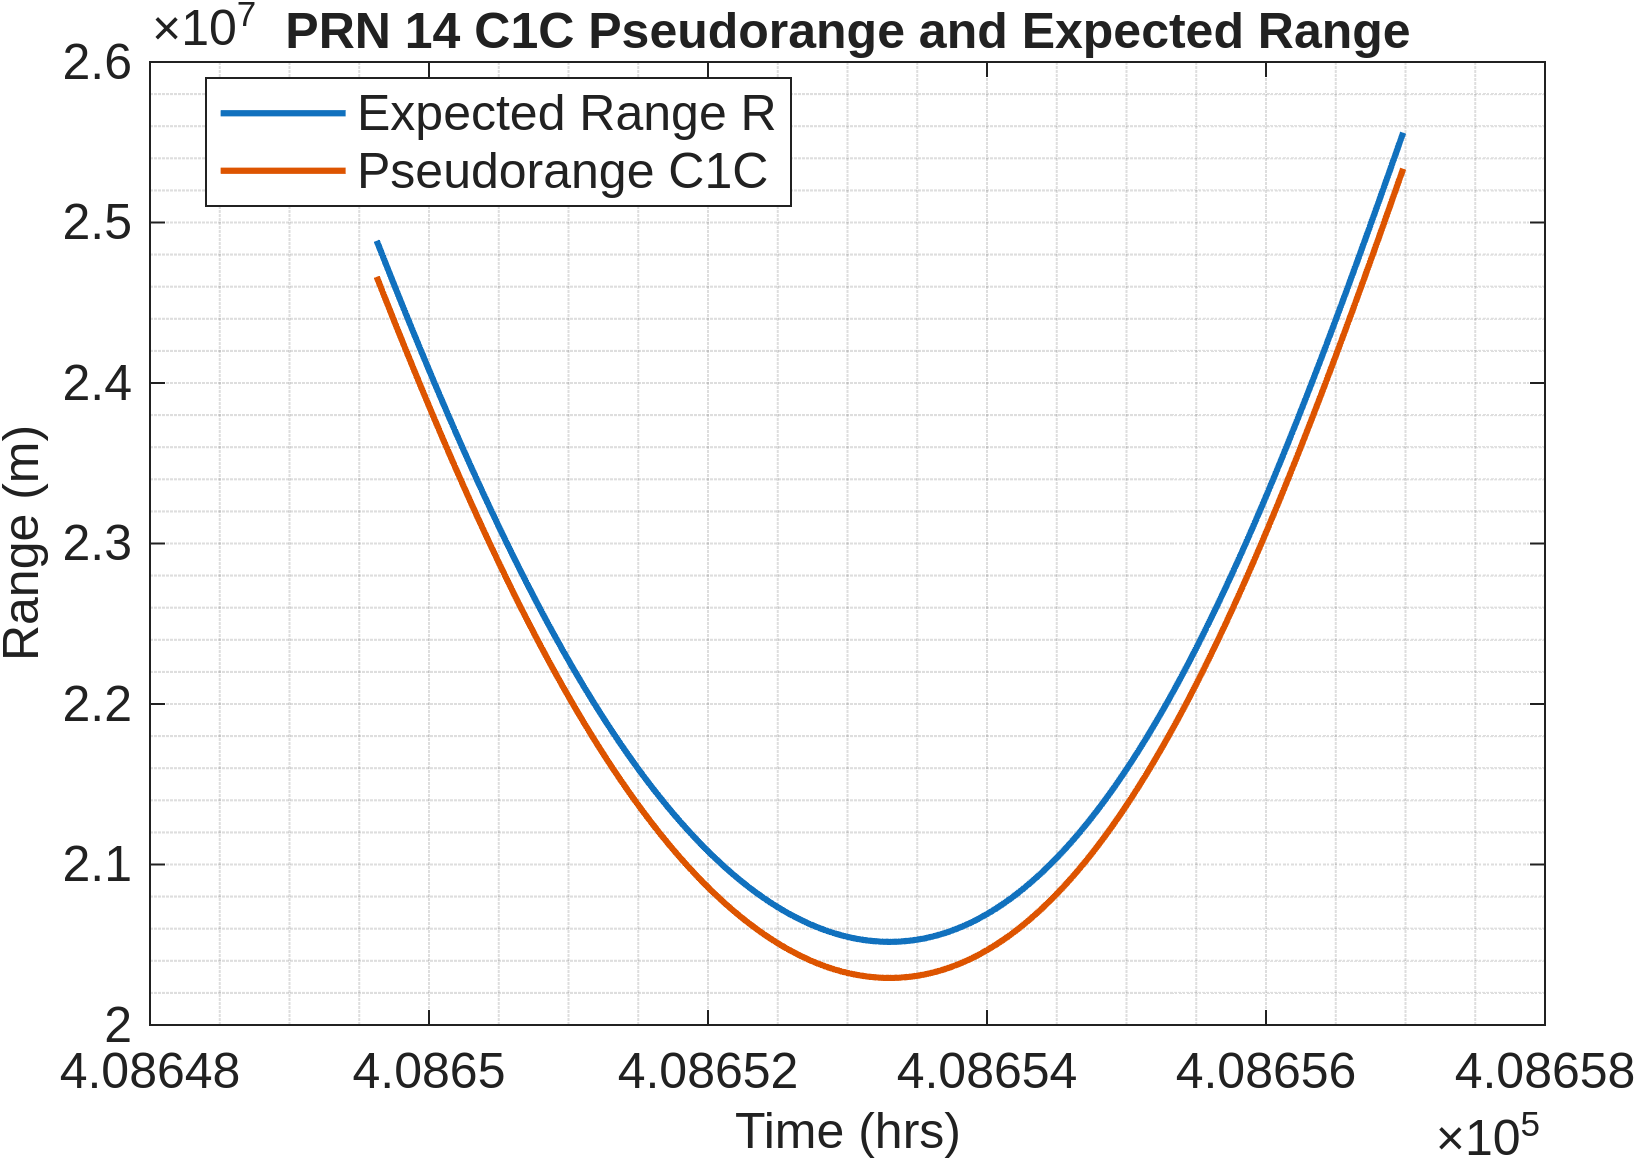
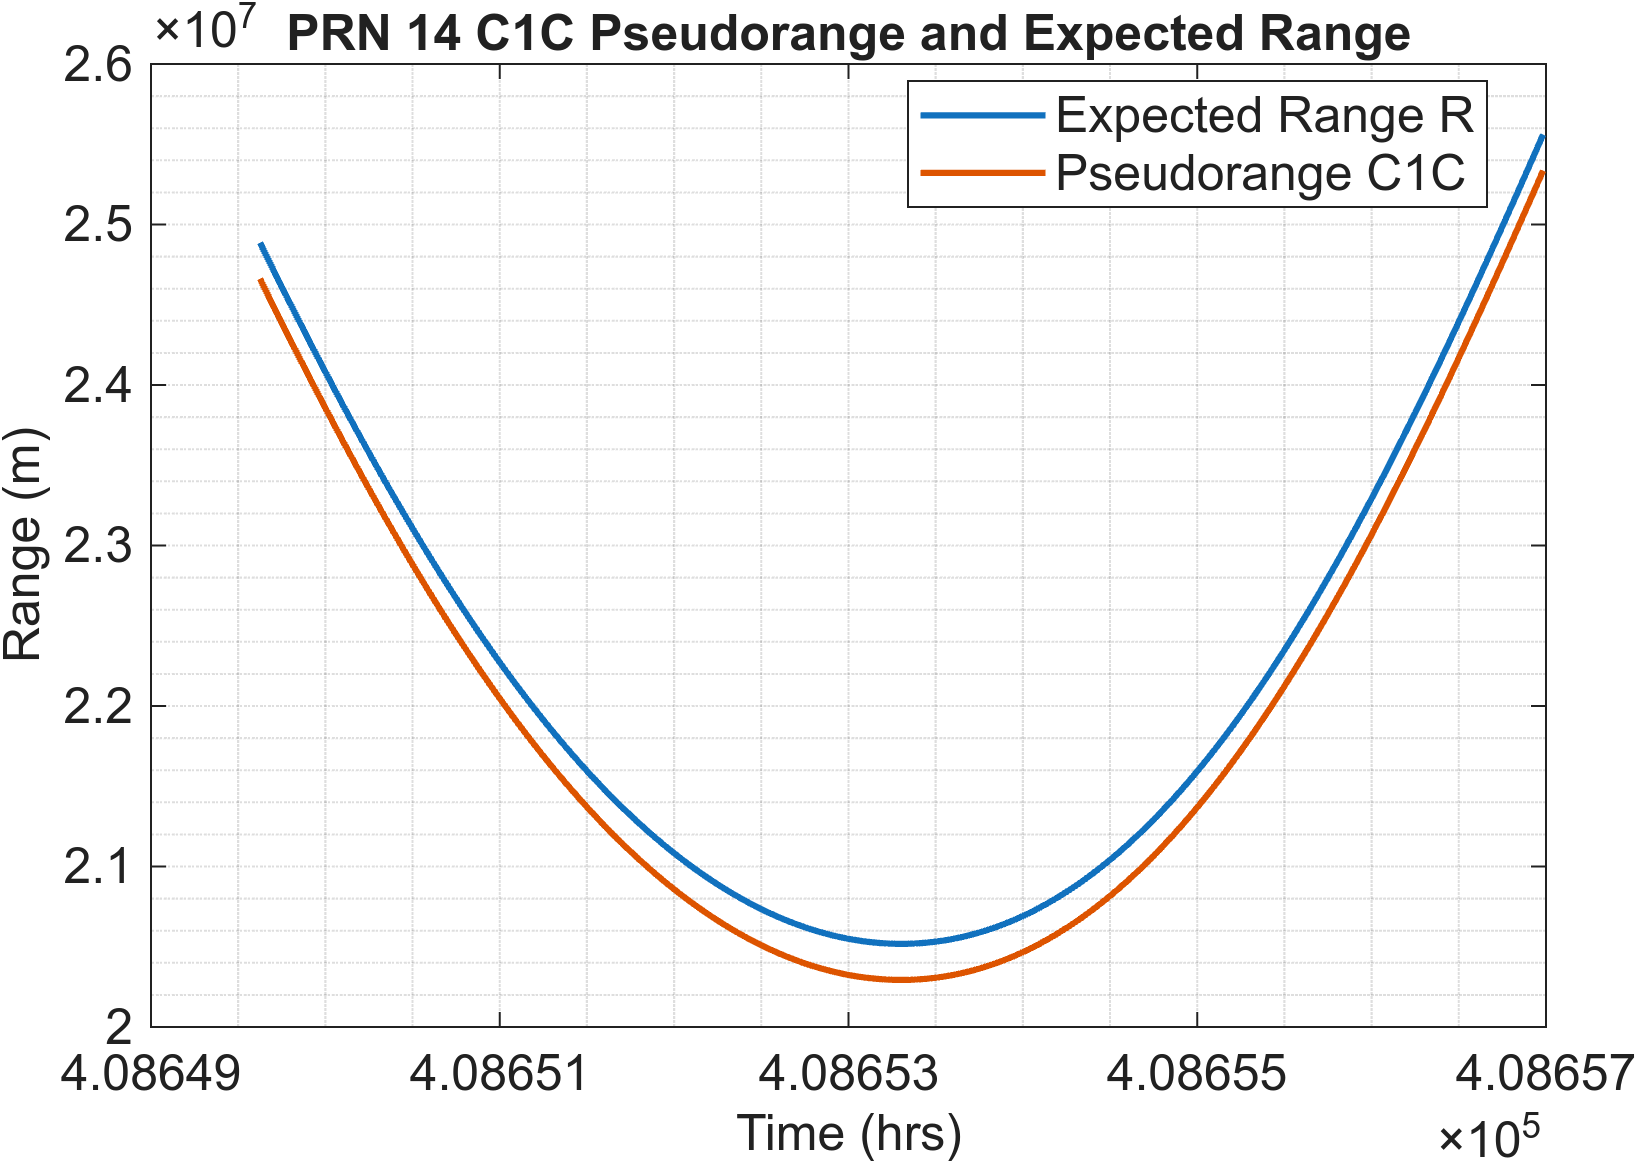
gps hw4 work

diff --git a/GPS/Homework/MATLAB/HW4_SCRIPT.m b/GPS/Homework/MATLAB/HW4_SCRIPT.m
@@ -53,6 +53,7 @@ legend('Expected Range R', 'Pseudorange C1C', 'Location', 'best')
 title(sprintf('PRN %d C1C Pseudorange and Expected Range', PRN_number))
 set(gcf, 'Units', 'inches', 'Position', [0 0 6 4]);
 set(findall(gcf, '-property', 'FontSize'), 'FontSize', 12);
+set(findall(gcf, 'Type', 'axes'), 'XTick', floor(min(ephem_time_hr)):2:ceil(max(ephem_time_hr)));
 exportgraphics(gcf, fullfile('figures', 'HW4', 'HW4_P1_C1C_vs_R_PRN14.png'), 'Resolution', 300);
 
 figure()
@@ -63,12 +64,13 @@ grid minor
 title(sprintf('PRN %d dPR0 = C1C - R', PRN_number))
 set(gcf, 'Units', 'inches', 'Position', [0 0 6 4]);
 set(findall(gcf, '-property', 'FontSize'), 'FontSize', 12);
+set(findall(gcf, 'Type', 'axes'), 'XTick', floor(min(ephem_time_hr)):2:ceil(max(ephem_time_hr)));
 exportgraphics(gcf, fullfile('figures', 'HW4', 'HW4_P1_dPR0_PRN14.png'), 'Resolution', 300);
 
 % Difference vector between C1C and expected range
 dPR0 = PRN14_GPS_rinexData.C1C-R_expected;
-dPR0(1)
-dPR0(end)
+fprintf('dPR0 first value: %.4f m\n', dPR0(1));
+fprintf('dPR0 last value:  %.4f m\n', dPR0(end));
 
 %% Problem 2
 figure()
@@ -79,6 +81,7 @@ grid minor
 title(sprintf('PRN %d Satellite Clock Correction b_{sv}', PRN_number))
 set(gcf, 'Units', 'inches', 'Position', [0 0 6 4]);
 set(findall(gcf, '-property', 'FontSize'), 'FontSize', 12);
+set(findall(gcf, 'Type', 'axes'), 'XTick', floor(min(ephem_time_hr)):2:ceil(max(ephem_time_hr)));
 exportgraphics(gcf, fullfile('figures', 'HW4', 'HW4_P2_bsv_PRN14.png'), 'Resolution', 300);
 
 % Where bsv is SatClkCorr
@@ -92,10 +95,11 @@ grid minor
 title(sprintf('PRN %d dPR1 = C1C - (R - b_{sv})', PRN_number))
 set(gcf, 'Units', 'inches', 'Position', [0 0 6 4]);
 set(findall(gcf, '-property', 'FontSize'), 'FontSize', 12);
+set(findall(gcf, 'Type', 'axes'), 'XTick', floor(min(ephem_time_hr)):2:ceil(max(ephem_time_hr)));
 exportgraphics(gcf, fullfile('figures', 'HW4', 'HW4_P2_dPR1_PRN14.png'), 'Resolution', 300);
 
-dPR1(1)
-dPR1(end)
+fprintf('dPR1 first value: %.4f m\n', dPR1(1));
+fprintf('dPR1 last value:  %.4f m\n', dPR1(end));
 
 %% Problem 3
 figure()
@@ -106,6 +110,7 @@ grid minor
 title(sprintf('PRN %d Relativistic Correction rel_{sv}', PRN_number))
 set(gcf, 'Units', 'inches', 'Position', [0 0 6 4]);
 set(findall(gcf, '-property', 'FontSize'), 'FontSize', 12);
+set(findall(gcf, 'Type', 'axes'), 'XTick', floor(min(ephem_time_hr)):2:ceil(max(ephem_time_hr)));
 exportgraphics(gcf, fullfile('figures', 'HW4', 'HW4_P3_relsv_PRN14.png'), 'Resolution', 300);
 
 % Where bsv is SatClkCorr
@@ -119,13 +124,14 @@ grid minor
 title(sprintf('PRN %d dPR2 = C1C - (R - b_{sv} - rel_{sv})', PRN_number))
 set(gcf, 'Units', 'inches', 'Position', [0 0 6 4]);
 set(findall(gcf, '-property', 'FontSize'), 'FontSize', 12);
+set(findall(gcf, 'Type', 'axes'), 'XTick', floor(min(ephem_time_hr)):2:ceil(max(ephem_time_hr)));
 exportgraphics(gcf, fullfile('figures', 'HW4', 'HW4_P3_dPR2_PRN14.png'), 'Resolution', 300);
 
 % TODO make part 2 and part 3 self consistent, where it is a switch case
 % within eph2pvt
 
-dPR2(1)
-dPR2(end)
+fprintf('dPR2 first value: %.4f m\n', dPR2(1));
+fprintf('dPR2 last value:  %.4f m\n', dPR2(end));
 
 %% Problem 4
 % Using the troposphere model we calculated
@@ -142,6 +148,7 @@ grid minor
 title(sprintf('PRN %d Tropospheric Correction (z_d = %g m)', PRN_number, zd))
 set(gcf, 'Units', 'inches', 'Position', [0 0 6 4]);
 set(findall(gcf, '-property', 'FontSize'), 'FontSize', 12);
+set(findall(gcf, 'Type', 'axes'), 'XTick', floor(min(ephem_time_hr)):2:ceil(max(ephem_time_hr)));
 exportgraphics(gcf, fullfile('figures', 'HW4', 'HW4_P4_tropo_PRN14.png'), 'Resolution', 300);
 
 % Plotting dPR3 = C1C – (R – bsv - relsv + tropo)
@@ -158,10 +165,11 @@ grid minor
 title(sprintf('PRN %d dPR3 = C1C - (R - b_{sv} - rel_{sv} + tropo)', PRN_number))
 set(gcf, 'Units', 'inches', 'Position', [0 0 6 4]);
 set(findall(gcf, '-property', 'FontSize'), 'FontSize', 12);
+set(findall(gcf, 'Type', 'axes'), 'XTick', floor(min(ephem_time_hr)):2:ceil(max(ephem_time_hr)));
 exportgraphics(gcf, fullfile('figures', 'HW4', 'HW4_P4_dPR3_PRN14.png'), 'Resolution', 300);
 
-dPR3(1)
-dPR3(end)
+fprintf('dPR3 first value: %.4f m\n', dPR3(1));
+fprintf('dPR3 last value:  %.4f m\n', dPR3(end));
 
 %% Problem 5
 f1 = 1575.42e6; % C1C frequency
@@ -179,6 +187,7 @@ grid minor
 title(sprintf('PRN %d Ionospheric Correction (C1C, C2L)', PRN_number))
 set(gcf, 'Units', 'inches', 'Position', [0 0 6 4]);
 set(findall(gcf, '-property', 'FontSize'), 'FontSize', 12);
+set(findall(gcf, 'Type', 'axes'), 'XTick', floor(min(ephem_time_hr)):2:ceil(max(ephem_time_hr)));
 exportgraphics(gcf, fullfile('figures', 'HW4', 'HW4_P5_iono_PRN14.png'), 'Resolution', 300);
 
 % calculate dPR4
@@ -193,10 +202,11 @@ grid minor
 title(sprintf('PRN %d dPR4 = PRIF12 - (R - b_{sv} - rel_{sv} + tropo)', PRN_number))
 set(gcf, 'Units', 'inches', 'Position', [0 0 6 4]);
 set(findall(gcf, '-property', 'FontSize'), 'FontSize', 12);
+set(findall(gcf, 'Type', 'axes'), 'XTick', floor(min(ephem_time_hr)):2:ceil(max(ephem_time_hr)));
 exportgraphics(gcf, fullfile('figures', 'HW4', 'HW4_P5_dPR4_PRN14.png'), 'Resolution', 300);
 
-dPR4(1)
-dPR4(end)
+fprintf('dPR4 first value: %.4f m\n', dPR4(1));
+fprintf('dPR4 last value:  %.4f m\n', dPR4(end));
 
 %% Problem 6
 % Plot all on one graph
@@ -213,4 +223,127 @@ legend('dPR1: b_{sv}', 'dPR2: b_{sv} + rel_{sv}', 'dPR3: b_{sv} + rel_{sv} + tro
 title(sprintf('PRN %d Pseudorange Residuals dPR1-dPR4', PRN_number))
 set(gcf, 'Units', 'inches', 'Position', [0 0 6 4]);
 set(findall(gcf, '-property', 'FontSize'), 'FontSize', 12);
+set(findall(gcf, 'Type', 'axes'), 'XTick', floor(min(ephem_time_hr)):2:ceil(max(ephem_time_hr)));
 exportgraphics(gcf, fullfile('figures', 'HW4', 'HW4_P6_all_dPRs.png'), 'Resolution', 300);
+
+%% Problem 7
+
+% Each corresponding frequency
+f1 = 1575.42e6; % L1 frequency (C1C, L1C)
+f2 = 1227.60e6; % L2 frequency (C2W, L2W, C2L, L2L)
+f5 = 1176.45e6; % L5 frequency (C5Q, L5Q)
+
+[MP1,CMC1] = mpath(PRN14_GPS_rinexData.C1C, PRN14_GPS_rinexData.L1C, f1, PRN14_GPS_rinexData.L2W, f2);
+
+figure()
+subplot(3,1,1)
+plot(ephem_time_hr, CMC1, 'LineWidth', 1.5)
+ylabel('CMC1')
+grid minor
+title(sprintf('PRN %d CMC1', PRN_number))
+subplot(3,1,2)
+plot(ephem_time_hr, MP1, 'LineWidth', 1.5)
+ylabel('MP1')
+grid minor
+subplot(3,1,3)
+plot(ephem_time_hr, PRN14_GPS_rinexData.S1C, 'LineWidth', 1.5)
+xlabel('Time (hrs)')
+ylabel('S1C (dB-Hz)')
+grid minor
+set(gcf, 'Units', 'inches', 'Position', [0 0 6 8]);
+set(findall(gcf, '-property', 'FontSize'), 'FontSize', 12);
+set(findall(gcf, 'Type', 'axes'), 'XTick', floor(min(ephem_time_hr)):2:ceil(max(ephem_time_hr)));
+exportgraphics(gcf, fullfile('figures', 'HW4', 'HW4_P7_CMC1.png'), 'Resolution', 300);
+
+% Repeat for 
+
+% C1C
+% Done above
+
+% C2W
+[MP_C2W,CMC_C2W] = mpath(PRN14_GPS_rinexData.C2W, PRN14_GPS_rinexData.L2W, f2, PRN14_GPS_rinexData.L1C, f1);
+
+figure()
+subplot(3,1,1)
+plot(ephem_time_hr, CMC_C2W, 'LineWidth', 1.5)
+ylabel('CMC C2W')
+grid minor
+title(sprintf('PRN %d CMC C2W', PRN_number))
+subplot(3,1,2)
+plot(ephem_time_hr, MP_C2W, 'LineWidth', 1.5)
+ylabel('MP C2W')
+grid minor
+subplot(3,1,3)
+plot(ephem_time_hr, PRN14_GPS_rinexData.S2W, 'LineWidth', 1.5)
+xlabel('Time (hrs)')
+ylabel('S2W (dB-Hz)')
+grid minor
+set(gcf, 'Units', 'inches', 'Position', [0 0 6 8]);
+set(findall(gcf, '-property', 'FontSize'), 'FontSize', 12);
+set(findall(gcf, 'Type', 'axes'), 'XTick', floor(min(ephem_time_hr)):2:ceil(max(ephem_time_hr)));
+exportgraphics(gcf, fullfile('figures', 'HW4', 'HW4_P7_CMC_C2W.png'), 'Resolution', 300);
+
+% C2L
+[MP_C2L,CMC_C2L] = mpath(PRN14_GPS_rinexData.C2L, PRN14_GPS_rinexData.L2L, f2, PRN14_GPS_rinexData.L1C, f1);
+
+figure()
+subplot(3,1,1)
+plot(ephem_time_hr, CMC_C2L, 'LineWidth', 1.5)
+ylabel('CMC C2L')
+grid minor
+title(sprintf('PRN %d CMC C2L', PRN_number))
+subplot(3,1,2)
+plot(ephem_time_hr, MP_C2L, 'LineWidth', 1.5)
+ylabel('MP C2L')
+grid minor
+subplot(3,1,3)
+plot(ephem_time_hr, PRN14_GPS_rinexData.S2L, 'LineWidth', 1.5)
+xlabel('Time (hrs)')
+ylabel('S2L (dB-Hz)')
+grid minor
+set(gcf, 'Units', 'inches', 'Position', [0 0 6 8]);
+set(findall(gcf, '-property', 'FontSize'), 'FontSize', 12);
+set(findall(gcf, 'Type', 'axes'), 'XTick', floor(min(ephem_time_hr)):2:ceil(max(ephem_time_hr)));
+exportgraphics(gcf, fullfile('figures', 'HW4', 'HW4_P7_CMC_C2L.png'), 'Resolution', 300);
+
+% C5Q
+[MP_C5Q,CMC_C5Q] = mpath(PRN14_GPS_rinexData.C5Q, PRN14_GPS_rinexData.L5Q, f5, PRN14_GPS_rinexData.L2W, f2);
+
+figure()
+subplot(3,1,1)
+plot(ephem_time_hr, CMC_C5Q, 'LineWidth', 1.5)
+ylabel('CMC C5Q')
+grid minor
+title(sprintf('PRN %d CMC C5Q', PRN_number))
+subplot(3,1,2)
+plot(ephem_time_hr, MP_C5Q, 'LineWidth', 1.5)
+ylabel('MP C5Q')
+grid minor
+subplot(3,1,3)
+plot(ephem_time_hr, PRN14_GPS_rinexData.S5Q, 'LineWidth', 1.5)
+xlabel('Time (hrs)')
+ylabel('S5Q (dB-Hz)')
+grid minor
+set(gcf, 'Units', 'inches', 'Position', [0 0 6 8]);
+set(findall(gcf, '-property', 'FontSize'), 'FontSize', 12);
+set(findall(gcf, 'Type', 'axes'), 'XTick', floor(min(ephem_time_hr)):2:ceil(max(ephem_time_hr)));
+exportgraphics(gcf, fullfile('figures', 'HW4', 'HW4_P7_CMC_C5Q.png'), 'Resolution', 300);
+
+% Plot multipath combinations together
+figure()
+plot(ephem_time_hr, CMC1, 'LineWidth', 1.5)
+hold on
+plot(ephem_time_hr, CMC_C2W, 'LineWidth', 1.5)
+hold on
+plot(ephem_time_hr, CMC_C2L, 'LineWidth', 1.5)
+hold on
+plot(ephem_time_hr, CMC_C5Q, 'LineWidth', 1.5)
+hold on
+xlabel('Time (hrs)')
+ylabel('Pseudoranges (m)')
+legend('CMC1', 'CMC C2W', 'CMC C2L', 'CMC C5Q', 'Location', 'best')
+grid minor
+set(gcf, 'Units', 'inches', 'Position', [0 0 6 4]);
+set(findall(gcf, '-property', 'FontSize'), 'FontSize', 12);
+set(findall(gcf, 'Type', 'axes'), 'XTick', floor(min(ephem_time_hr)):2:ceil(max(ephem_time_hr)));
+exportgraphics(gcf, fullfile('figures', 'HW4', 'HW4_P7_all_pseudorange.png'), 'Resolution', 300);

diff --git a/GPS/Homework/MATLAB/mpath.m b/GPS/Homework/MATLAB/mpath.m
@@ -1,0 +1,13 @@
+function [MP1,CMC1] = mpath(rho_1, phi_1, f_1, phi_2, f_2)
+
+c   = 2.99792458e8;    % SI speed of light, m/s
+lambda_1 = c/f_1;
+lambda_2 = c/f_2;
+
+% L1C and L2W are the carrier phase of 1 and 2
+
+% Mpath equations
+MP1  = rho_1 - (f_1^2 + f_2^2)/(f_1^2 - f_2^2) .* phi_1*lambda_1 + (2*f_2^2)/(f_1^2 - f_2^2).* phi_2*lambda_2;
+CMC1 = rho_1 - phi_1*lambda_1;
+
+end

diff --git a/GPS/Homework/MATLAB/eph2pvt2025.m b/GPS/Homework/MATLAB/eph2pvt2025.m
@@ -215,16 +215,3 @@ for tt = 1:sz % loop through all input times
 
 end % END of t_input loop =================================================
 %==========================================================================    
-
-
-
-
-
-
-
-
-
-
-
-    
-    
